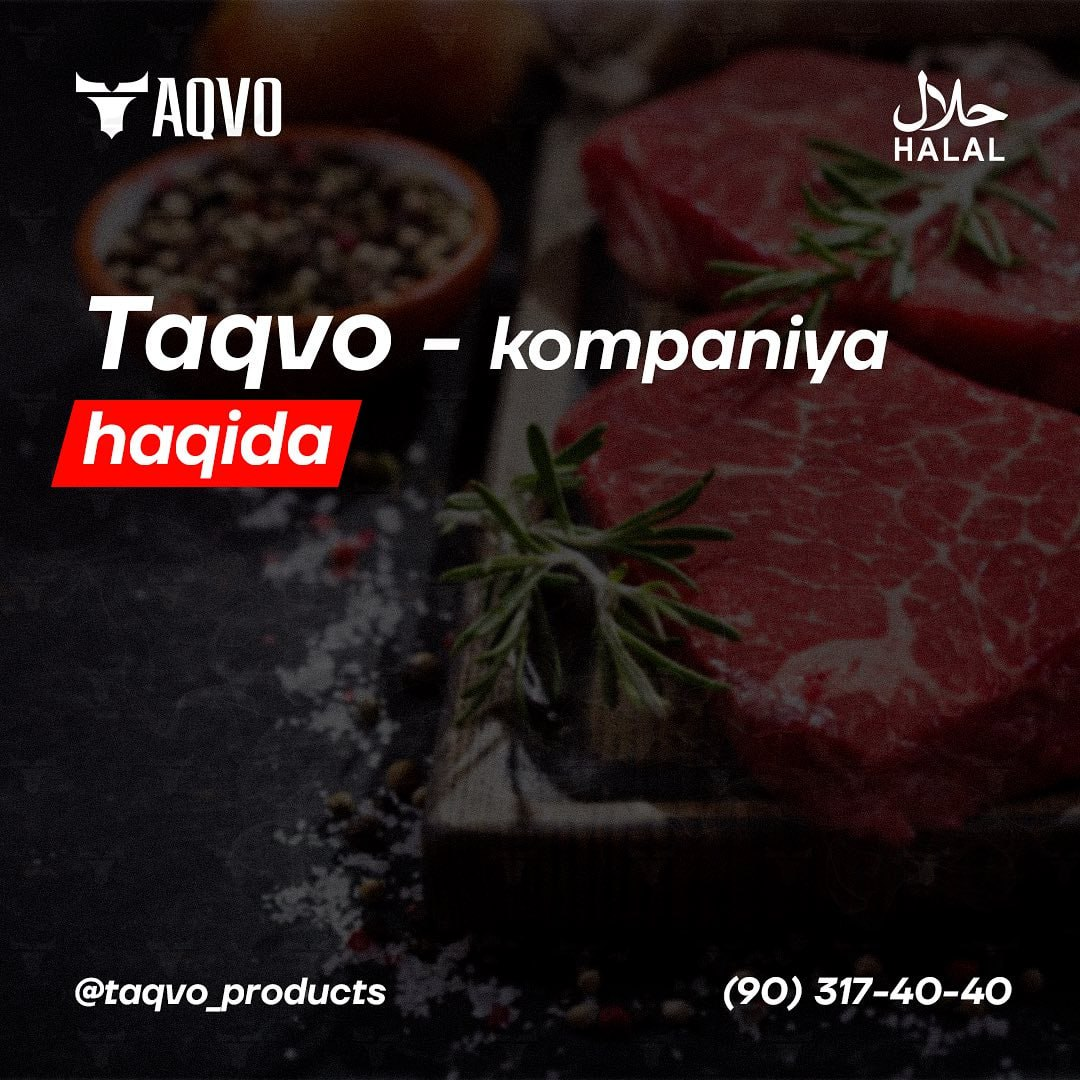
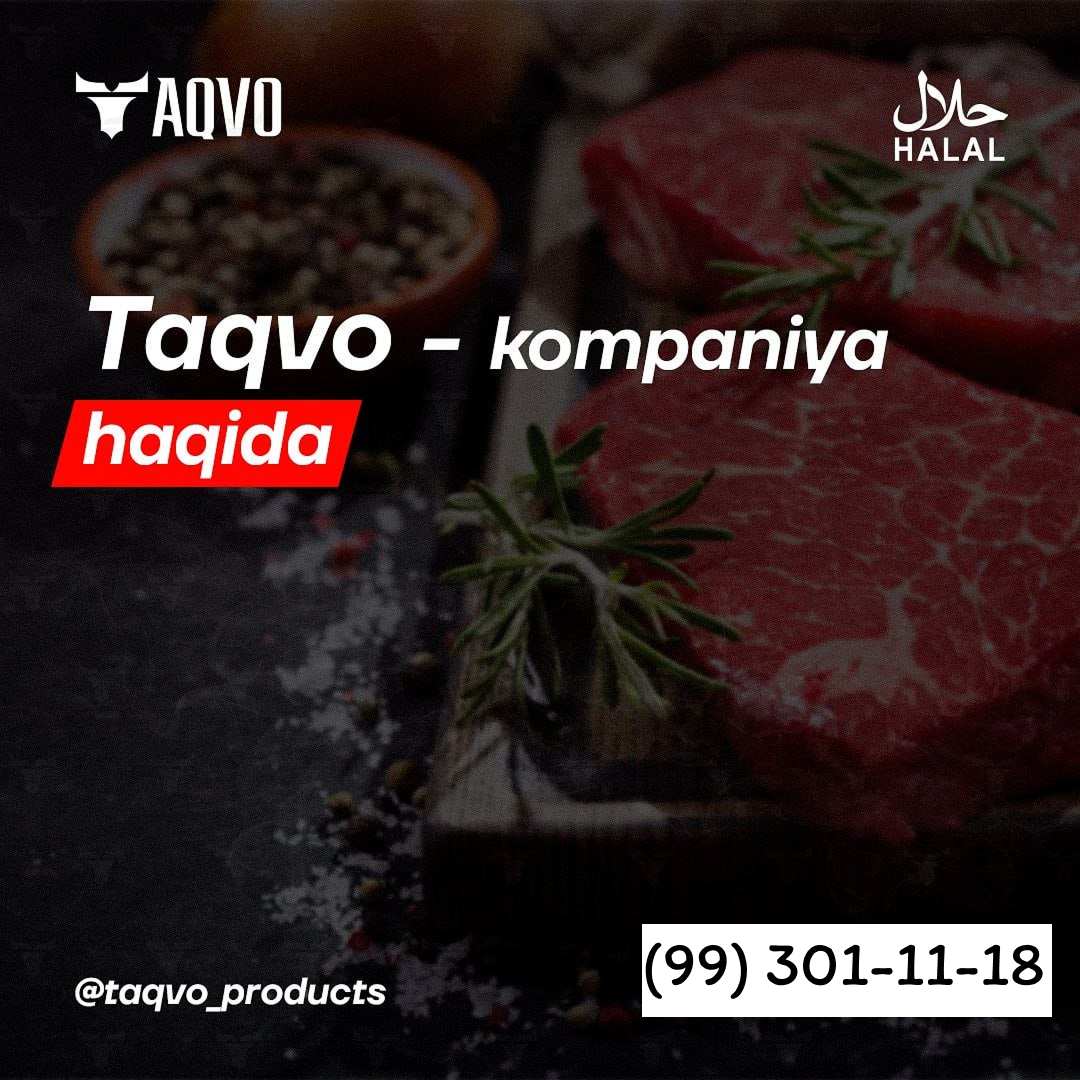
add Dockerfile for Railway deployment

Changed region(s): [[0.5806, 0.8556, 0.9778, 0.9472]]

diff --git a/meat_bot.py b/meat_bot.py
@@ -243,13 +243,34 @@ async def button(update: Update, context: ContextTypes.DEFAULT_TYPE):
         await query.answer()
 
     elif data == "contacts":
-        contact_buttons = [
-            [InlineKeyboardButton("Bosh ofis", callback_data="contact_office")],
-            [InlineKeyboardButton("Toshkent shahar bozorlari", callback_data="contact_markets")],
-            [InlineKeyboardButton("Operator", callback_data="contact_operator")],
-            [InlineKeyboardButton("Call center", callback_data="call-center")],
-            [InlineKeyboardButton('\U0001F519 Orqaga', callback_data='back')]
+        # First row: main contacts
+        main_contacts = [
+            InlineKeyboardButton("Bosh ofis", callback_data="contact_office"),
+            InlineKeyboardButton("Toshkent shahar bozorlari", callback_data="contact_markets"),
+            InlineKeyboardButton("Operator", callback_data="contact_operator"),
+            InlineKeyboardButton("Call center", callback_data="call-center")
         ]
+        # Second row: regional markets
+        regional_contacts = [
+            InlineKeyboardButton("Toshkent viloyati", callback_data="toshkent_viloyat"),
+            InlineKeyboardButton("Namangan", callback_data="namangan_markets"),
+            InlineKeyboardButton("Andijon", callback_data="andijon_markets"),
+            InlineKeyboardButton("Farg'ona", callback_data="fargona_markets"),
+            InlineKeyboardButton("Qo'qon", callback_data="qoqon_markets"),
+            InlineKeyboardButton("Sirdaryo", callback_data="sirdaryo_markets"),
+            InlineKeyboardButton("Jizzax", callback_data="jizzax_markets"),
+            InlineKeyboardButton("Samarqand", callback_data="samarqand_markets"),
+            InlineKeyboardButton("Qashqadaryo", callback_data="qashqadaryo_markets"),
+            InlineKeyboardButton("Surxandaryo", callback_data="surxondaryo_markets"),
+            InlineKeyboardButton("Navoiy", callback_data="navoiy_markets"),
+            InlineKeyboardButton("Buxoro", callback_data="buxoro_markets"),
+            InlineKeyboardButton("Xorazm", callback_data="xorazm_markets"),
+            InlineKeyboardButton("To'rtko'l", callback_data="tortkol_markets")
+        ]
+        # Arrange regional contacts in rows of 4
+        regional_rows = [regional_contacts[i:i+4] for i in range(0, len(regional_contacts), 4)]
+        # Build full keyboard
+        contact_buttons = [main_contacts] + regional_rows + [[InlineKeyboardButton('\U0001F519 Orqaga', callback_data='back')]]
         await query.edit_message_text("\U0001F4DE Biz bilan bog'lanish uchun bo'limni tanlang:", reply_markup=InlineKeyboardMarkup(contact_buttons))
 
     elif data == "contact_office":
@@ -257,9 +278,66 @@ async def button(update: Update, context: ContextTypes.DEFAULT_TYPE):
         await query.edit_message_text(office_text, parse_mode='HTML', reply_markup=InlineKeyboardMarkup([[InlineKeyboardButton('\U0001F519 Orqaga', callback_data='contacts')]]))
 
     elif data == "contact_markets":
-        markets_text = "<b>Toshkent shahar bozorlari:</b>\n+998 97 735 00 03 (Izzatuloh)\n+998 93 587 91 11 (Shaxzod)"
+        markets_text = "<b>Toshkent shahar bozorlari:</b>\n+998 97 735 00 03 (Izzatuloh)\n+998 93 587 91 11 (Shaxzod)\n+998 99 301 11 18(Anvar)"
         await query.edit_message_text(markets_text, parse_mode='HTML', reply_markup=InlineKeyboardMarkup([[InlineKeyboardButton('\U0001F519 Orqaga', callback_data='contacts')]]))
 
+    elif data == "toshkent_viloyat":
+        markets_text = "<b>Toshkent viloyati bozorlari:</b>\n+998 93 587 91 11 (Shaxzod)\n+998 99 301 11 18(Anvar)"
+        await query.edit_message_text(markets_text, parse_mode='HTML', reply_markup=InlineKeyboardMarkup([[InlineKeyboardButton('\U0001F519 Orqaga', callback_data='contacts')]]))
+    
+    elif data == "namangan_markets":
+        markets_text = "<b>Namangan bozorlari:</b>\n+998 91 356 19 47 (Komolhon)\n+998 99 301 11 18(Anvar)\n+998 91 342 00 70(Abdulaziz)\n+998 94 170 07 75(Abdulahad)\n+998 99 395 25 21(Mahmudjon)"
+        await query.edit_message_text(markets_text, parse_mode='HTML', reply_markup=InlineKeyboardMarkup([[InlineKeyboardButton('\U0001F519 Orqaga', callback_data='contacts')]]))
+    
+    elif data == "andijon_markets":
+        markets_text = "<b>Andijon viloyati bozorlari:</b>\n+998 91 612 17 11(Anvar)\n+998 93 496 25 55(Baxtiyor)"
+        await query.edit_message_text(markets_text, parse_mode='HTML', reply_markup=InlineKeyboardMarkup([[InlineKeyboardButton('\U0001F519 Orqaga', callback_data='contacts')]]))
+    
+    elif data == "fargona_markets":
+        markets_text = "<b>Farg'ona viloyat bozorlari:</b>\n+998 90 231 33 40(Anora)\n+998 93 730 77 27(Asilbek)\n+998 99 301 11 18(Anvar)"
+        await query.edit_message_text(markets_text, parse_mode='HTML', reply_markup=InlineKeyboardMarkup([[InlineKeyboardButton('\U0001F519 Orqaga', callback_data='contacts')]]))
+    
+    elif data == "qoqon_markets":
+        markets_text = "<b>Qo'qon shahar bozorlari:</b>\n+998 91 155 55 22 (Jamshid)\n+998 99 301 11 18(Anvar)\n+998 77 090 00 18(Murodjon)\n+998 90 556 93 32(Ag'zamhon)\n+998 99 556 93 32(Azamat)"
+        await query.edit_message_text(markets_text, parse_mode='HTML', reply_markup=InlineKeyboardMarkup([[InlineKeyboardButton('\U0001F519 Orqaga', callback_data='contacts')]]))
+    
+    elif data == "sirdaryo_markets":
+        markets_text = "<b>Sirdaryo shahar bozorlari:</b>\n+998 99 772 00 03(Zafar Hoji)\n+998 99 301 11 18(Anvar)"
+        await query.edit_message_text(markets_text, parse_mode='HTML', reply_markup=InlineKeyboardMarkup([[InlineKeyboardButton('\U0001F519 Orqaga', callback_data='contacts')]]))
+
+    elif data == "jizzax_markets":
+        markets_text = "<b>Jizzax shahar bozorlari:</b>\n+998 99 644 01 01(Abulaziz)\n+998 93 730 77 27(Asilbek)\n+998 99 301 11 18(Anvar)"
+        await query.edit_message_text(markets_text, parse_mode='HTML', reply_markup=InlineKeyboardMarkup([[InlineKeyboardButton('\U0001F519 Orqaga', callback_data='contacts')]]))
+    
+    elif data == "samarqand_markets":
+        markets_text = "<b>Samarqand shahar bozorlari:</b>\n+998 94 044 04 00 (Baxtiyor)\n+998 99 301 11 18(Anvar)"
+        await query.edit_message_text(markets_text, parse_mode='HTML', reply_markup=InlineKeyboardMarkup([[InlineKeyboardButton('\U0001F519 Orqaga', callback_data='contacts')]]))
+    
+    elif data == "qashqadaryo_markets":
+        markets_text = "<b>Qashqadaryo shahar bozorlari:</b>\n+998 99 301 11 18 (Anvar)"
+        await query.edit_message_text(markets_text, parse_mode='HTML', reply_markup=InlineKeyboardMarkup([[InlineKeyboardButton('\U0001F519 Orqaga', callback_data='contacts')]]))
+    
+    elif data == "surxondaryo_markets":
+        markets_text = "<b>Surxondaryo shahar bozorlari:</b>\n+998 99 301 11 18 (Anvar)\n+998 97 414 40 92(Muhammad G'olib)"
+        await query.edit_message_text(markets_text, parse_mode='HTML', reply_markup=InlineKeyboardMarkup([[InlineKeyboardButton('\U0001F519 Orqaga', callback_data='contacts')]]))
+    
+    elif data == "navoiy_markets":
+        markets_text = "<b>Navoiy shahar bozorlari:</b>\n+998 94 044 04 00 (Baxtiyor)\n+998 99 301 11 18(Anvar)"
+        await query.edit_message_text(markets_text, parse_mode='HTML', reply_markup=InlineKeyboardMarkup([[InlineKeyboardButton('\U0001F519 Orqaga', callback_data='contacts')]]))
+    
+    elif data == "buxoro_markets":
+        markets_text = "<b>Buxoro shahar bozorlari:</b>\n+998 99 301 11 18(Anvar)\n+998 90 317 40 40(Temur)"
+        await query.edit_message_text(markets_text, parse_mode='HTML', reply_markup=InlineKeyboardMarkup([[InlineKeyboardButton('\U0001F519 Orqaga', callback_data='contacts')]]))
+    
+    elif data == "xorazm_markets":
+        markets_text = "<b>Xorazm shahar bozorlari:</b>\n+998 99 301 11 18 (Anvar)"
+        await query.edit_message_text(markets_text, parse_mode='HTML', reply_markup=InlineKeyboardMarkup([[InlineKeyboardButton('\U0001F519 Orqaga', callback_data='contacts')]]))
+    
+    elif data == "tortkol_markets":
+        markets_text = "<b>To'rtko'l shahar bozorlari:</b>\n+998 90 827 87 00 (Farruh)\n+998 99 301 11 18(Anvar)"
+        await query.edit_message_text(markets_text, parse_mode='HTML', reply_markup=InlineKeyboardMarkup([[InlineKeyboardButton('\U0001F519 Orqaga', callback_data='contacts')]]))
+    
+    
     elif data == "call-center":
         office_text = "<b>Call center:</b>\n+998 55 510 08 08\n+998 55 502 40 40"
         await query.edit_message_text(office_text, parse_mode='HTML', reply_markup=InlineKeyboardMarkup([[InlineKeyboardButton('\U0001F519 Orqaga', callback_data='contacts')]]))
